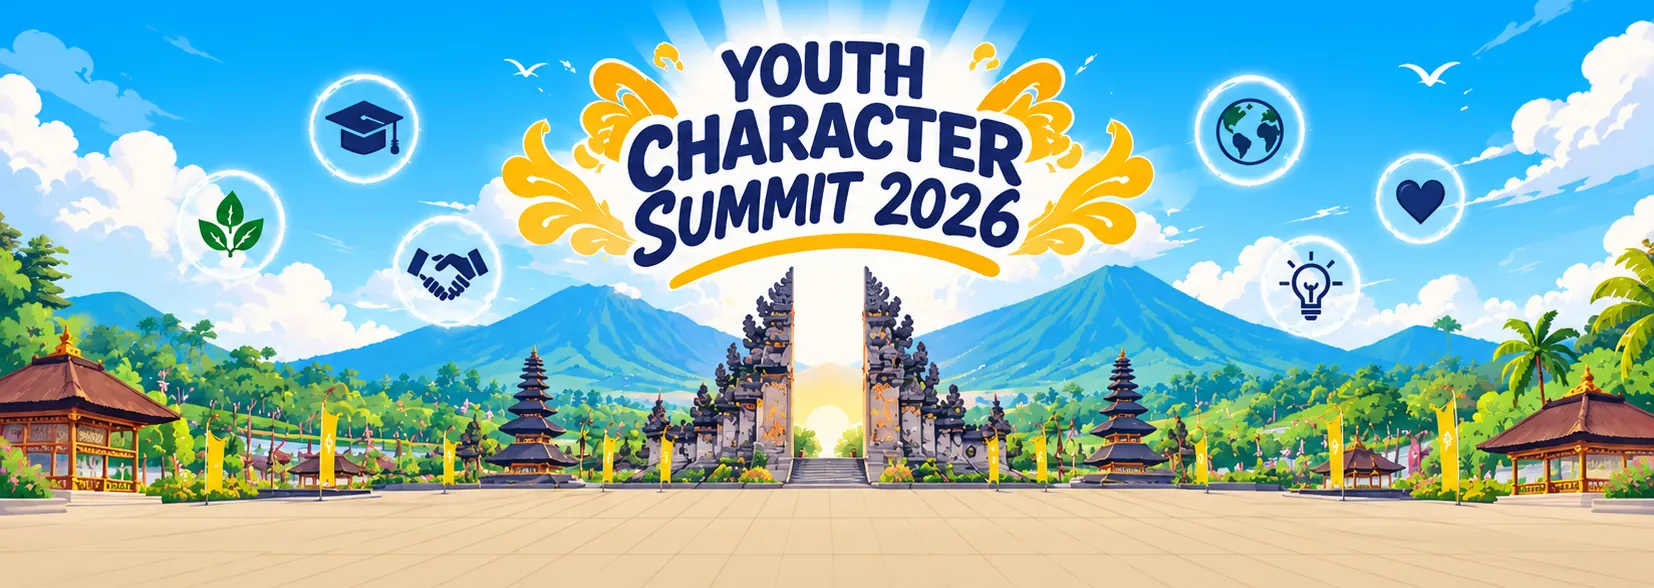
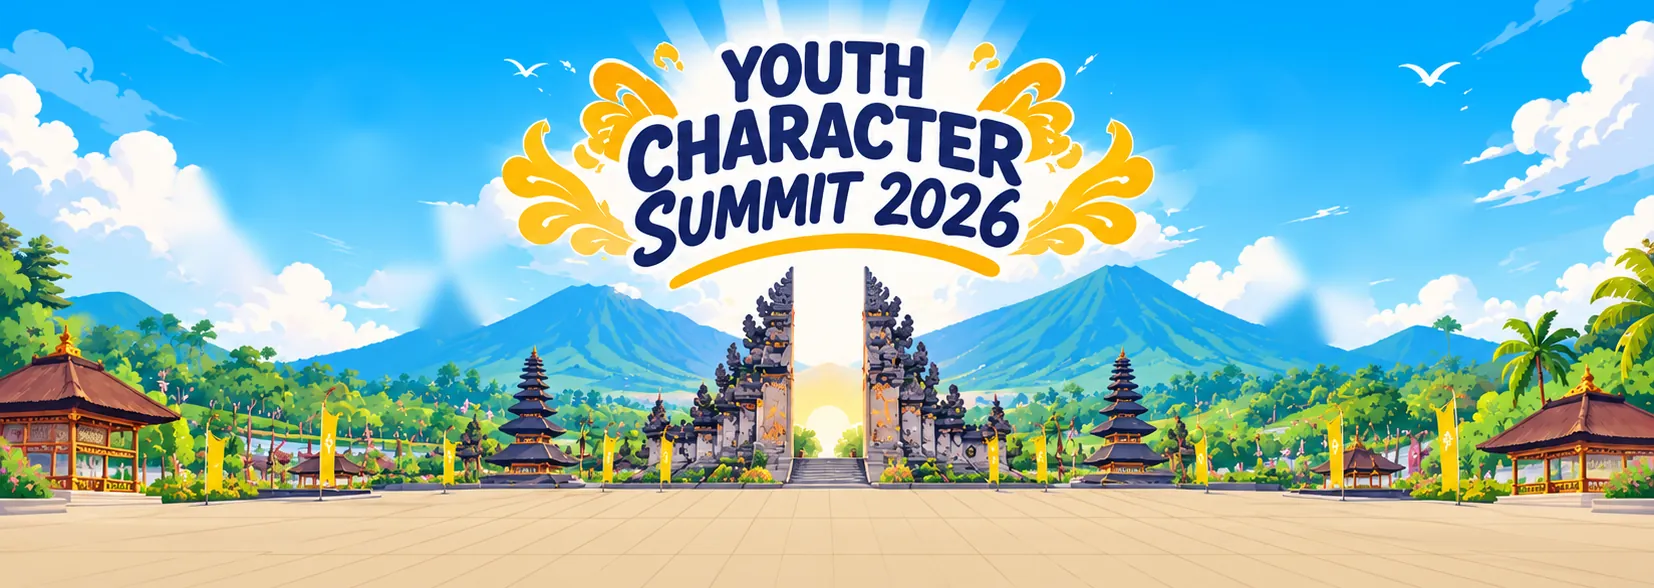
Gelembung nilai interaktif (mengambang, diketuk memantul + label), Festival Satu Kata jadi kampanye utama, urutan Festival > Live > Dana Kaget

diff --git a/index.html b/index.html
@@ -1267,6 +1267,10 @@
     .mobile-code small { display: block; font-size: .8125rem; opacity: .85; }
     .mobile-nav__main { grid-template-columns: 1fr 1fr; margin-top: var(--space-3); }
     .mobile-nav__main a { justify-content: center; background: var(--surface-soft); font-weight: 700; }
+    .mobile-nav__utama { grid-column: 1 / -1; }
+    .mobile-nav__utama a { background: var(--cta); color: #fff; }
+    .nav__link--utama { color: var(--cta); font-weight: 800; }
+    .fest-utama { display: inline-flex; align-items: center; gap: .375rem; margin-left: .375rem; padding: .25rem .625rem; border-radius: var(--radius-pill); background: var(--cta); color: #fff; font-size: .6875rem; font-weight: 800; letter-spacing: .05em; text-transform: uppercase; vertical-align: middle; }
     .mobile-nav__label { margin: var(--space-4) var(--space-4) var(--space-1); font-size: .75rem; font-weight: 800; letter-spacing: .08em; text-transform: uppercase; color: var(--text-muted); }
     .mobile-nav__more { grid-template-columns: repeat(3, 1fr); }
     .mobile-nav__more a { justify-content: center; min-height: 2.75rem; font-size: .875rem; color: var(--text-muted); }
@@ -1373,10 +1377,10 @@
 
       <nav class="nav" aria-label="Navigasi utama">
         <ul class="nav__list">
-          <li><a class="nav__link" href="#delegasi">Finalis<span class="nav__dot" data-fase="pasca" aria-hidden="true"></span></a></li>
+          <li><a class="nav__link nav__link--utama" href="#satu-kata">Festival Satu Kata</a></li>
           <li><a class="nav__link" href="#live">Live</a></li>
           <li><a class="nav__link" href="#dana">Dana Kaget</a></li>
-          <li><a class="nav__link" href="#satu-kata">Satu Kata</a></li>
+          <li><a class="nav__link" href="#delegasi">Finalis<span class="nav__dot" data-fase="pasca" aria-hidden="true"></span></a></li>
         </ul>
       </nav>
 
@@ -1403,11 +1407,11 @@
           <svg class="mobile-code__arrow" aria-hidden="true"><use href="#i-arrow"/></svg>
         </button>
         <ul class="mobile-nav__main">
-          <li><a href="#delegasi">Finalis</a></li>
+          <li class="mobile-nav__utama"><a href="#satu-kata">Festival Satu Kata</a></li>
           <li><a href="#live">Live</a></li>
           <li><a href="#dana">Dana Kaget</a></li>
-          <li><a href="#satu-kata">Satu Kata</a></li>
-          <li><a href="klaim/">Klaim tiket</a></li>
+          <li><a href="#delegasi">Finalis</a></li>
+          <li><a href="klaim/">Klaim wildcard</a></li>
           <li><a href="survei/">Survei</a></li>
         </ul>
         <p class="mobile-nav__label">Lainnya</p>
@@ -1481,15 +1485,15 @@
         </div>
 
         <div class="hero__cta-wrap">
-          <a class="btn btn--cta btn--hero" href="#delegasi" data-fase="pasca">
-            <span class="btn__icon"><svg aria-hidden="true"><use href="#i-search"/></svg></span>
-            <span>Cari namaku<small>Lihat daftar lengkap finalis</small></span>
+          <a class="btn btn--cta btn--hero" href="#satu-kata" data-fase="pasca">
+            <span class="btn__icon"><svg aria-hidden="true"><use href="#i-chat"/></svg></span>
+            <span>Masuk Festival Satu Kata<small>Kirim 1 kata, temukan dirimu</small></span>
             <svg class="btn__arrow" aria-hidden="true"><use href="#i-arrow"/></svg>
           </a>
-          <a class="hero__klaim" href="klaim/" data-fase="pasca">Belum lolos? <strong>Klaim tiket wildcard</strong><svg aria-hidden="true"><use href="#i-arrow"/></svg></a>
-          <a class="btn btn--cta btn--hero" href="#dana" data-fase="pra">
-            <span class="btn__icon"><svg aria-hidden="true"><use href="#i-gift"/></svg></span>
-            <span>Klaim Dana Kaget<small>Isi data, masukkan kode</small></span>
+          <a class="hero__klaim" href="#delegasi" data-fase="pasca">Lihat <strong>daftar finalis</strong><svg aria-hidden="true"><use href="#i-arrow"/></svg></a>
+          <a class="btn btn--cta btn--hero" href="#satu-kata" data-fase="pra">
+            <span class="btn__icon"><svg aria-hidden="true"><use href="#i-chat"/></svg></span>
+            <span>Masuk Festival Satu Kata<small>Kirim 1 kata, temukan dirimu</small></span>
             <svg class="btn__arrow" aria-hidden="true"><use href="#i-arrow"/></svg>
           </a>
           <p class="hero__script" aria-hidden="true" data-fase="pra">Bersama kita bisa!</p>
@@ -1535,6 +1539,69 @@
         </div>
       </div>
       <svg class="wave wave--bottom" viewBox="0 0 1440 80" preserveAspectRatio="none" aria-hidden="true"><path d="M0 46C180 78 360 10 560 30s380 50 560 26 240-46 320-34V80H0Z"/></svg>
+    </section>
+
+    <!-- ========== FESTIVAL SATU KATA (1 data = 1 warga; hasil terbuka setelah mengirim data + kata) ========== -->
+    <section class="section deco-bg" id="satu-kata" aria-labelledby="sk-title">
+      <div class="container">
+        <div class="fest-head reveal">
+          <div>
+            <span class="badge" style="background:#FFD86B;color:#5B0A16">#SatuKataUntukIndonesia</span><span class="fest-utama">Kampanye utama</span>
+            <h2 class="sec-title" id="sk-title" style="margin-top:.5rem">Festival <span class="scribble">Satu Kata</span></h2>
+            <p class="sec-sub">Satu orang, satu kata. Kirim data dan satu kata harapanmu, lalu masuklah ke Festival YCS di Bali: kamu hidup sebagai satu warga festival bersama ribuan pelajar se-Indonesia.</p>
+          </div>
+          <p class="fest-count"><strong id="fest-total">0</strong> warga festival</p>
+        </div>
+
+        <div class="fest is-locked" id="fest">
+          <div class="fest__stage">
+            <canvas id="fest-canvas" role="img" aria-label="Ilustrasi Festival YCS di Bali. Setiap orang kecil adalah satu pelajar yang sudah mengirim kata."></canvas>
+          </div>
+          <div class="fest__alat" id="fest-alat">
+            <form class="fest__cari" id="fest-cari" role="search">
+              <label class="visually-hidden" for="fest-q">Cari nama di festival</label>
+              <input class="input" id="fest-q" placeholder="Cari namamu atau temanmu…" autocomplete="off">
+              <button class="btn btn--primary btn--sm" type="submit"><svg aria-hidden="true"><use href="#i-search"/></svg>Temukan</button>
+            </form>
+            <button class="btn btn--cta btn--sm" type="button" id="fest-unduh"><svg aria-hidden="true"><use href="#i-download"/></svg>Unduh kartu</button>
+            <button class="btn btn--soft btn--sm" type="button" data-share-open="kata"><svg aria-hidden="true"><use href="#i-share"/></svg>Ajak teman</button>
+            <p class="fest__info" id="fest-info" role="status"></p>
+          </div>
+
+          <form class="fest__gerbang" id="fest-form" novalidate>
+            <h3><svg aria-hidden="true"><use href="#i-lock"/></svg>Festival masih terkunci</h3>
+            <p>Isi data, pilih karakter, lalu kirim satu kata harapan. Kamu akan muncul sebagai warga festival dan bisa menemukan namamu.</p>
+            <div class="fest__fields">
+              <div class="field field--wide"><label for="fk-nama">Nama</label><input class="input" id="fk-nama" required minlength="2" maxlength="60" autocomplete="name" placeholder="Contoh: Fauzan Rahman" aria-describedby="fk-nama-error"><p class="field__error" id="fk-nama-error"></p></div>
+              <div class="field field--wide"><label for="fk-sekolah">Sekolah</label><input class="input" id="fk-sekolah" required minlength="2" maxlength="100" placeholder="Contoh: SMAN 1 Semarang" aria-describedby="fk-sekolah-error"><p class="field__error" id="fk-sekolah-error"></p></div>
+              <div class="field"><label for="fk-prov">Provinsi</label><select class="select" id="fk-prov" required aria-describedby="fk-prov-error"><option value="">Pilih provinsi</option></select><p class="field__error" id="fk-prov-error"></p></div>
+              <div class="field"><label for="fk-email">Email</label><input class="input" type="email" id="fk-email" required maxlength="254" autocomplete="email" inputmode="email" placeholder="nama@email.com" aria-describedby="fk-email-error"><p class="field__error" id="fk-email-error"></p></div>
+              <div class="field field--wide"><label for="fk-kata">Satu kata harapanmu untuk Indonesia</label><input class="input fest__kata" id="fk-kata" required maxlength="20" placeholder="Contoh: sejahtera" autocomplete="off" autocapitalize="none" spellcheck="false" aria-describedby="fk-kata-error"><p class="field__error" id="fk-kata-error"></p></div>
+            </div>
+            <a class="fest-wa" id="fk-wa" href="https://whatsapp.com/channel/0029Vb5vVIaId7nEqecJ1I1G" target="_blank" rel="noopener" data-saluran aria-describedby="fk-wa-error">
+              <span class="fest-wa__ico" aria-hidden="true"><svg><use href="#i-whatsapp"/></svg></span>
+              <span><small>Syarat wajib</small><strong>Ikuti Saluran WhatsApp YCS</strong><span id="fk-wa-state">Ketuk kartu ini, syarat langsung tercentang</span></span>
+              <span class="fest-wa__cek" aria-hidden="true"><svg><use href="#i-check"/></svg></span>
+            </a>
+            <p class="field__error" id="fk-wa-error"></p>
+            <fieldset class="karakter" id="fk-karakter-set" aria-describedby="fk-karakter-info fk-karakter-error">
+              <legend>Pilih karaktermu <span class="opt">(24 baju adat Nusantara · geser untuk melihat semua)</span></legend>
+              <p class="karakter__info" id="fk-karakter-info"><svg aria-hidden="true"><use href="#i-lock"/></svg><span>Lengkapi data di atas dan ketuk Saluran WhatsApp untuk membuka pilihan karakter.</span></p>
+              <div class="karakter__daftar" id="fk-karakter" role="radiogroup" aria-label="Karakter baju adat"></div>
+              <p class="karakter__saran" id="fk-karakter-saran" role="status"></p>
+              <p class="field__error" id="fk-karakter-error"></p>
+            </fieldset>
+            <label class="check" for="fk-setuju" style="margin-top:1rem">
+              <input type="checkbox" id="fk-setuju" required aria-describedby="fk-setuju-error">
+              <span>Saya setuju data disimpan panitia sesuai <a href="privasi/" target="_blank">Kebijakan Privasi</a>. Nama panggilan, provinsi, dan kataku tampil di festival; email tidak pernah ditampilkan. Jika di bawah 18 tahun, saya sudah mendapat izin orang tua/wali.</span>
+            </label>
+            <p class="field__error" id="fk-setuju-error"></p>
+            <div hidden><label for="fk-website">Website</label><input id="fk-website" tabindex="-1" autocomplete="off"></div>
+            <p class="dk-alert" id="fk-alert" role="alert"></p>
+            <button class="btn btn--cta btn--block" type="submit" id="fk-kirim" style="margin-top:1rem">Kirim &amp; masuk festival <svg aria-hidden="true"><use href="#i-arrow"/></svg></button>
+          </form>
+        </div>
+      </div>
     </section>
 
     <!-- ========== LIVE ========== -->
@@ -1854,69 +1921,6 @@
           <li><figure class="ikon-card"><img src="assets/img/bali/ikon-sawah.webp" width="480" height="600" alt="Sawah Terasering" loading="lazy" decoding="async"><span class="ikon-card__tag" aria-hidden="true">Alam</span><figcaption><strong>Sawah Terasering</strong><span>Sistem subak warisan dunia UNESCO</span></figcaption></figure></li>
           <li><figure class="ikon-card"><img src="assets/img/bali/ikon-penjor1.webp" width="480" height="600" alt="Penjor Galungan" loading="lazy" decoding="async"><span class="ikon-card__tag" aria-hidden="true">Tradisi</span><figcaption><strong>Penjor Galungan</strong><span>Hiasan bambu saat hari raya</span></figcaption></figure></li>
         </ul>
-      </div>
-    </section>
-
-    <!-- ========== FESTIVAL SATU KATA (1 data = 1 warga; hasil terbuka setelah mengirim data + kata) ========== -->
-    <section class="section deco-bg" id="satu-kata" aria-labelledby="sk-title">
-      <div class="container">
-        <div class="fest-head reveal">
-          <div>
-            <span class="badge" style="background:#FFD86B;color:#5B0A16">#SatuKataUntukIndonesia</span>
-            <h2 class="sec-title" id="sk-title" style="margin-top:.5rem">Festival <span class="scribble">Satu Kata</span></h2>
-            <p class="sec-sub">Satu orang, satu kata. Kirim data dan satu kata harapanmu, lalu masuklah ke Festival YCS di Bali: kamu hidup sebagai satu warga festival bersama ribuan pelajar se-Indonesia.</p>
-          </div>
-          <p class="fest-count"><strong id="fest-total">0</strong> warga festival</p>
-        </div>
-
-        <div class="fest is-locked" id="fest">
-          <div class="fest__stage">
-            <canvas id="fest-canvas" role="img" aria-label="Ilustrasi Festival YCS di Bali. Setiap orang kecil adalah satu pelajar yang sudah mengirim kata."></canvas>
-          </div>
-          <div class="fest__alat" id="fest-alat">
-            <form class="fest__cari" id="fest-cari" role="search">
-              <label class="visually-hidden" for="fest-q">Cari nama di festival</label>
-              <input class="input" id="fest-q" placeholder="Cari namamu atau temanmu…" autocomplete="off">
-              <button class="btn btn--primary btn--sm" type="submit"><svg aria-hidden="true"><use href="#i-search"/></svg>Temukan</button>
-            </form>
-            <button class="btn btn--cta btn--sm" type="button" id="fest-unduh"><svg aria-hidden="true"><use href="#i-download"/></svg>Unduh kartu</button>
-            <button class="btn btn--soft btn--sm" type="button" data-share-open="kata"><svg aria-hidden="true"><use href="#i-share"/></svg>Ajak teman</button>
-            <p class="fest__info" id="fest-info" role="status"></p>
-          </div>
-
-          <form class="fest__gerbang" id="fest-form" novalidate>
-            <h3><svg aria-hidden="true"><use href="#i-lock"/></svg>Festival masih terkunci</h3>
-            <p>Isi data, pilih karakter, lalu kirim satu kata harapan. Kamu akan muncul sebagai warga festival dan bisa menemukan namamu.</p>
-            <div class="fest__fields">
-              <div class="field field--wide"><label for="fk-nama">Nama</label><input class="input" id="fk-nama" required minlength="2" maxlength="60" autocomplete="name" placeholder="Contoh: Fauzan Rahman" aria-describedby="fk-nama-error"><p class="field__error" id="fk-nama-error"></p></div>
-              <div class="field field--wide"><label for="fk-sekolah">Sekolah</label><input class="input" id="fk-sekolah" required minlength="2" maxlength="100" placeholder="Contoh: SMAN 1 Semarang" aria-describedby="fk-sekolah-error"><p class="field__error" id="fk-sekolah-error"></p></div>
-              <div class="field"><label for="fk-prov">Provinsi</label><select class="select" id="fk-prov" required aria-describedby="fk-prov-error"><option value="">Pilih provinsi</option></select><p class="field__error" id="fk-prov-error"></p></div>
-              <div class="field"><label for="fk-email">Email</label><input class="input" type="email" id="fk-email" required maxlength="254" autocomplete="email" inputmode="email" placeholder="nama@email.com" aria-describedby="fk-email-error"><p class="field__error" id="fk-email-error"></p></div>
-              <div class="field field--wide"><label for="fk-kata">Satu kata harapanmu untuk Indonesia</label><input class="input fest__kata" id="fk-kata" required maxlength="20" placeholder="Contoh: sejahtera" autocomplete="off" autocapitalize="none" spellcheck="false" aria-describedby="fk-kata-error"><p class="field__error" id="fk-kata-error"></p></div>
-            </div>
-            <a class="fest-wa" id="fk-wa" href="https://whatsapp.com/channel/0029Vb5vVIaId7nEqecJ1I1G" target="_blank" rel="noopener" data-saluran aria-describedby="fk-wa-error">
-              <span class="fest-wa__ico" aria-hidden="true"><svg><use href="#i-whatsapp"/></svg></span>
-              <span><small>Syarat wajib</small><strong>Ikuti Saluran WhatsApp YCS</strong><span id="fk-wa-state">Ketuk kartu ini, syarat langsung tercentang</span></span>
-              <span class="fest-wa__cek" aria-hidden="true"><svg><use href="#i-check"/></svg></span>
-            </a>
-            <p class="field__error" id="fk-wa-error"></p>
-            <fieldset class="karakter" id="fk-karakter-set" aria-describedby="fk-karakter-info fk-karakter-error">
-              <legend>Pilih karaktermu <span class="opt">(24 baju adat Nusantara · geser untuk melihat semua)</span></legend>
-              <p class="karakter__info" id="fk-karakter-info"><svg aria-hidden="true"><use href="#i-lock"/></svg><span>Lengkapi data di atas dan ketuk Saluran WhatsApp untuk membuka pilihan karakter.</span></p>
-              <div class="karakter__daftar" id="fk-karakter" role="radiogroup" aria-label="Karakter baju adat"></div>
-              <p class="karakter__saran" id="fk-karakter-saran" role="status"></p>
-              <p class="field__error" id="fk-karakter-error"></p>
-            </fieldset>
-            <label class="check" for="fk-setuju" style="margin-top:1rem">
-              <input type="checkbox" id="fk-setuju" required aria-describedby="fk-setuju-error">
-              <span>Saya setuju data disimpan panitia sesuai <a href="privasi/" target="_blank">Kebijakan Privasi</a>. Nama panggilan, provinsi, dan kataku tampil di festival; email tidak pernah ditampilkan. Jika di bawah 18 tahun, saya sudah mendapat izin orang tua/wali.</span>
-            </label>
-            <p class="field__error" id="fk-setuju-error"></p>
-            <div hidden><label for="fk-website">Website</label><input id="fk-website" tabindex="-1" autocomplete="off"></div>
-            <p class="dk-alert" id="fk-alert" role="alert"></p>
-            <button class="btn btn--cta btn--block" type="submit" id="fk-kirim" style="margin-top:1rem">Kirim &amp; masuk festival <svg aria-hidden="true"><use href="#i-arrow"/></svg></button>
-          </form>
-        </div>
       </div>
     </section>
 
@@ -2265,8 +2269,8 @@
     /* ---------- Fase halaman: pra (countdown) / pasca (reveal) ---------- */
     // Urutan section per fase. DOM statis sudah berurutan "pra" agar tampilan tanpa JS tetap wajar.
     const URUTAN = {
-      pra: ['beranda', 'dana', 'satu-kata', 'live', 'road', 'delegasi', 'promo', 'jejak', 'ikon-bali', 'komunitas', 'faq', 'klaim-cta'],
-      pasca: ['beranda', 'delegasi', 'klaim-cta', 'dana', 'satu-kata', 'live', 'road', 'promo', 'jejak', 'ikon-bali', 'komunitas', 'faq'],
+      pra: ['beranda', 'satu-kata', 'live', 'dana', 'delegasi', 'road', 'promo', 'jejak', 'ikon-bali', 'komunitas', 'faq', 'klaim-cta'],
+      pasca: ['beranda', 'satu-kata', 'live', 'dana', 'delegasi', 'klaim-cta', 'road', 'promo', 'jejak', 'ikon-bali', 'komunitas', 'faq'],
     };
     let fase = 'pra';
     function setFase(f) {

diff --git a/assets/js/festival.js b/assets/js/festival.js
@@ -4,6 +4,15 @@
   'use strict';
   const LATAR = { kecil: '/assets/img/festival/latar-900.webp', besar: '/assets/img/festival/latar-1600.webp' };
   // Lapisan teks "Youth Character Summit 2026" (dipotong dari latar, latar transparan) agar cahaya bisa datang dari belakangnya.
+  // 6 gelembung nilai karakter (dipotong dari latar; posisi relatif terhadap gambar latar 1654×588).
+  const GELEMBUNG = [
+    { k: 'Pendidikan', t: 'Belajar tanpa batas', x: 0.2201, y: 0.2194, r: 0.0387 },
+    { k: 'Lingkungan', t: 'Jaga alam Indonesia', x: 0.1391, y: 0.3827, r: 0.0387 },
+    { k: 'Kolaborasi', t: 'Bersama lebih kuat', x: 0.2703, y: 0.4575, r: 0.0387 },
+    { k: 'Wawasan Global', t: 'Berpikir mendunia', x: 0.7557, y: 0.2211, r: 0.0393 },
+    { k: 'Kepedulian', t: 'Peduli sesama', x: 0.8585, y: 0.3367, r: 0.0333 },
+    { k: 'Inovasi', t: 'Ide untuk negeri', x: 0.7920, y: 0.4864, r: 0.0363 },
+  ];
   const JUDUL = { kecil: '/assets/img/festival/judul-900.webp', besar: '/assets/img/festival/judul-1600.webp', x: 440 / 1654, y: 20 / 588, w: 780 / 1654, h: 272 / 588 };
   const KULIT = ['#F2C9A0', '#E0AC7E', '#C68A5C', '#A8693F', '#8A5530'];
   // 10 karakter baju adat Nusantara (digambar dengan kode: ringan, tanpa unduhan gambar).
@@ -196,6 +205,12 @@
     const burung = Array.from({ length: 3 }, (_, i) => ({ y: 0.1 + i * 0.07, v: 0.018 + i * 0.006, off: i * 0.37 }));
     latar.onload = () => { siapLatar = true; ukur(); };
     latar.src = (canvas.clientWidth > 700 ? LATAR.besar : LATAR.kecil);
+    const gelImg = new Image();
+    let siapGel = false;
+    gelImg.onload = () => { siapGel = true; };
+    gelImg.src = '/assets/img/festival/gelembung.webp';
+    const gelState = GELEMBUNG.map((g, i) => ({ ...g, i, fase: i * 1.7, pop: -9, hover: 0 }));
+    let gelLabel = null;
     const judulImg = new Image();
     let siapJudul = false;
     judulImg.onload = () => { siapJudul = true; };
@@ -283,6 +298,7 @@
       ctx.clearRect(0, 0, W, H);
       gambarLatar();
       gambarSuasana(t);
+      gambarGelembung(t);
       gambarJudul(t);
       const b = tinggiDasar();
       const urut = warga.slice().sort((p, q) => p.y - q.y);
@@ -428,6 +444,61 @@
         ctx.restore();
       }
     }
+    // Gelembung mengambang pelan; diketuk = memantul, bercahaya, dan menampilkan nilainya.
+    const posGel = (g, t) => {
+      const d = t / 1000, ih = area.imgH;
+      const bob = gerakMinim ? 0 : Math.sin(d * 0.9 + g.fase) * ih * 0.012;
+      const geser = gerakMinim ? 0 : Math.cos(d * 0.6 + g.fase) * W * 0.004;
+      const u = (t - g.pop) / 700;
+      const pantul = u >= 0 && u < 1 ? Math.sin(u * Math.PI) * 0.22 * (1 - u) + Math.sin(u * Math.PI * 3) * 0.05 * (1 - u) : 0;
+      const k = 1 + pantul + g.hover * 0.06 + (gerakMinim ? 0 : Math.sin(d * 1.3 + g.fase) * 0.015);
+      return { x: g.x * W + geser, y: g.y * ih + bob, r: g.r * W * k };
+    };
+    function gambarGelembung(t) {
+      if (!siapGel) return;
+      const sel = gelImg.width / GELEMBUNG.length;
+      for (const g of gelState) {
+        const p = posGel(g, t);
+        const u = (t - g.pop) / 900;
+        if (u >= 0 && u < 1) {
+          ctx.save(); ctx.globalCompositeOperation = 'lighter';
+          const gl = ctx.createRadialGradient(p.x, p.y, p.r * 0.6, p.x, p.y, p.r * (1.4 + u));
+          gl.addColorStop(0, `rgba(255,245,200,${0.55 * (1 - u)})`); gl.addColorStop(1, 'rgba(255,245,200,0)');
+          ctx.fillStyle = gl; ctx.beginPath(); ctx.arc(p.x, p.y, p.r * (1.4 + u), 0, Math.PI * 2); ctx.fill();
+          ctx.strokeStyle = `rgba(255,255,255,${0.8 * (1 - u)})`; ctx.lineWidth = 2;
+          ctx.beginPath(); ctx.arc(p.x, p.y, p.r * (1 + u * 0.9), 0, Math.PI * 2); ctx.stroke();
+          for (let j = 0; j < 8; j++) { const a = j * Math.PI / 4 + g.i; const rr = p.r * (1.05 + u * 1.1); ctx.fillStyle = `rgba(255,250,220,${1 - u})`; ctx.beginPath(); ctx.arc(p.x + Math.cos(a) * rr, p.y + Math.sin(a) * rr, 2.2 * (1 - u) + 0.8, 0, Math.PI * 2); ctx.fill(); }
+          ctx.restore();
+        }
+        ctx.drawImage(gelImg, g.i * sel, 0, sel, gelImg.height, p.x - p.r, p.y - p.r, p.r * 2, p.r * 2);
+      }
+      if (gelLabel && t < gelLabel.sampai) {
+        const g = gelLabel.g, p = posGel(g, t), a = Math.min(1, (gelLabel.sampai - t) / 300, (t - g.pop) / 200);
+        const fs = Math.max(12, Math.min(18, W / 70));
+        ctx.save(); ctx.globalAlpha = Math.max(0, a);
+        ctx.font = `800 ${fs}px "Plus Jakarta Sans", sans-serif`;
+        const w1 = ctx.measureText(g.k).width; ctx.font = `600 ${fs * 0.8}px "Plus Jakarta Sans", sans-serif`;
+        const w2 = ctx.measureText(g.t).width, bw = Math.max(w1, w2) + fs * 1.4, bh = fs * 2.7;
+        let bx = p.x - bw / 2; bx = Math.max(6, Math.min(W - bw - 6, bx));
+        const by = p.y + p.r + 8;
+        ctx.fillStyle = 'rgba(8,44,51,.88)'; ctx.beginPath(); if (ctx.roundRect) ctx.roundRect(bx, by, bw, bh, fs * 0.6); else ctx.rect(bx, by, bw, bh); ctx.fill();
+        ctx.textAlign = 'center'; ctx.fillStyle = '#FFC93C'; ctx.font = `800 ${fs}px "Plus Jakarta Sans", sans-serif`; ctx.fillText(g.k, bx + bw / 2, by + fs * 1.15);
+        ctx.fillStyle = '#fff'; ctx.font = `600 ${fs * 0.8}px "Plus Jakarta Sans", sans-serif`; ctx.fillText(g.t, bx + bw / 2, by + fs * 2.15);
+        ctx.restore();
+      }
+    }
+    function gelembungDi(x, y) {
+      const t = performance.now();
+      return gelState.find((g) => { const p = posGel(g, t); return Math.hypot(x - p.x, y - p.y) <= p.r * 1.1; });
+    }
+    function sentuhGelembung(g) {
+      const t = performance.now();
+      g.pop = t;
+      gelLabel = { g, sampai: t + 2600 };
+      mulai();
+      if (opsi.onGelembung) opsi.onGelembung(g.k);
+    }
+
     function cahaya(w) { efek.length = 0; efek.push({ w, t0: performance.now() }); mulai(); }
 
     /* ---------- Balon kata: banyak sekaligus, tidak pernah saling menutupi ---------- */
@@ -492,7 +563,9 @@
       }
     }
 
+    let tPopAuto = performance.now() + 4000;
     function putar(t) {
+      if (!gerakMinim && t > tPopAuto) { tPopAuto = t + 9000 + Math.random() * 5000; const g = gelState[Math.floor(Math.random() * gelState.length)]; g.pop = t; }
       raf = 0;
       if (!terlihat || document.hidden) { tLalu = 0; return; }
       if (t - tAkhir > 30) { tAkhir = t; gambar(t); }
@@ -500,9 +573,17 @@
     }
     const mulai = () => { if (!raf) raf = requestAnimationFrame(putar); };
 
+    canvas.addEventListener('pointermove', (ev) => {
+      const r = canvas.getBoundingClientRect();
+      const g = gelembungDi(ev.clientX - r.left, ev.clientY - r.top);
+      gelState.forEach((x) => { x.hover = x === g ? 1 : 0; });
+      canvas.style.cursor = g ? 'pointer' : '';
+    });
     canvas.addEventListener('click', (ev) => {
-      if (!balonAktif) return;
       const r = canvas.getBoundingClientRect(), x = ev.clientX - r.left, y = ev.clientY - r.top;
+      const g = gelembungDi(x, y);
+      if (g) { sentuhGelembung(g); return; }
+      if (!balonAktif) return;
       let pilih = null, terbaik = Infinity;
       for (const w of warga) {
         const l = w.layar;
